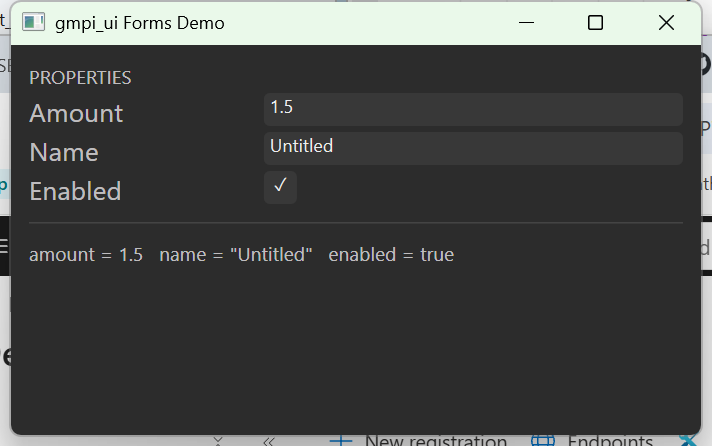
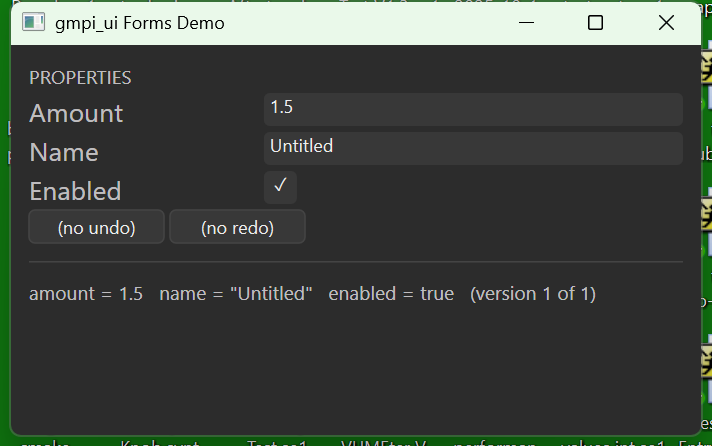
feat(FormsDemo): undo/redo over the immer history
A cursor into the immer::vector of model versions is the current
version. Undo and redo move it; a commit after an undo truncates the
vector at the cursor (take) before appending, dropping the redo tail.
Two buttons on the page, plus ctrl+Z / ctrl+Y through the Form's key
handler (WM_CHAR delivers the control codes 0x1A / 0x19). The summary
line reports "version N of M".

Verified by driving the built app: three edits, two undos, redo by key,
a commit that drops the tail, undo by key, redo by button - each state
matched. Doing so exposed the Grid-under-Form null dereference fixed in
the previous commit; without it the page stopped repainting after the
first edit.

diff --git a/examples/FormsDemo/DemoForm.cpp b/examples/FormsDemo/DemoForm.cpp
@@ -68,6 +68,16 @@ std::string trimmed(std::string s)
 DemoForm::DemoForm()
 {
     refreshStates();
+
+    // Keyboard shortcuts. The frame delivers WM_CHAR, so a control chord
+    // arrives as the ASCII control code: ctrl+Z is 0x1A, ctrl+Y is 0x19.
+    setKeyboardHandler([this](std::string glyph)
+    {
+        if (glyph == std::string(1, char(0x1A)))
+            undo();
+        else if (glyph == std::string(1, char(0x19)))
+            redo();
+    });
 }
 
 DemoForm::~DemoForm()
@@ -87,14 +97,32 @@ void DemoForm::refreshStates()
 
 void DemoForm::commit(Model next)
 {
-    // push_back returns a NEW vector sharing structure with the old one; the
-    // previous versions are untouched and still addressable.
-    history_ = history_.push_back(std::move(next));
+    // take() and push_back() each return a NEW vector sharing structure with
+    // the old one; the versions they keep are untouched and still addressable.
+    // Truncating first is what discards the redo tail after an undo.
+    history_ = history_.take(cursor_ + 1).push_back(std::move(next));
+    showVersion(history_.size() - 1);
+}
 
+void DemoForm::undo()
+{
+    if (canUndo())
+        showVersion(cursor_ - 1);
+}
+
+void DemoForm::redo()
+{
+    if (canRedo())
+        showVersion(cursor_ + 1);
+}
+
+void DemoForm::showVersion(std::size_t index)
+{
+    cursor_ = index;
     refreshStates();
 
-    // Rebuild rather than patch: the summary line below the controls is
-    // re-created with fresh text on the next render.
+    // Rebuild rather than patch: the summary line and the button captions
+    // below the controls are re-created with fresh text on the next render.
     formIsDirty_ = true;
     redraw();
 }
@@ -241,6 +269,27 @@ void DemoForm::Body()
         Label filler("");
     }
 
+    // --- undo / redo ---------------------------------------------------------
+    // A row of two fixed-width buttons and a filler that absorbs the rest. A
+    // button with nothing to do is still drawn (the widget set has no disabled
+    // look) but says so in its caption, and its click is a no-op.
+    {
+        constexpr float kButtonW = 90.0f;
+
+        Grid row(
+              { .gap = kLineSpacing, .auto_rows = kRowHeight, .auto_flow = eAutoFlow::columns, .column_widths = { kButtonW, kButtonW, fr(1.0f) } }
+            , {}
+        );
+
+        Button undo(canUndo() ? "Undo" : "(no undo)");
+        undo.view->onClick = [this] { this->undo(); };
+
+        Button redo(canRedo() ? "Redo" : "(no redo)");
+        redo.view->onClick = [this] { this->redo(); };
+
+        Label filler("");
+    }
+
     // --- summary -------------------------------------------------------------
     // What the model currently holds, so an edit's effect is visible even when
     // the editor re-shows exactly what was typed. Heading-sized: a label's
@@ -248,9 +297,9 @@ void DemoForm::Body()
     Spacer spacer({ 0, 0, 0, kHeadingHeight });
     const auto& m = model();
     Label summary(
-          std::format("amount = {}   name = \"{}\"   enabled = {}   ({} edits kept)",
+          std::format("amount = {}   name = \"{}\"   enabled = {}   (version {} of {})",
                       niceDoubleToString(m.amount), m.name, m.enabled ? "true" : "false",
-                      history_.size() - 1)
+                      cursor_ + 1, history_.size())
         , { 0, 0, 0, kHeadingHeight }
     );
 }

diff --git a/examples/FormsDemo/DemoForm.h b/examples/FormsDemo/DemoForm.h
@@ -19,11 +19,15 @@
 //     bounds or the theme change, so the summary line at the bottom is simply
 //     re-created with fresh text rather than kept in sync piecemeal.
 //
-//   * An IMMUTABLE model. Every committed edit produces a new Model value and
-//     appends it to an immer::vector - a persistent structure, so each version
-//     is a cheap, independent snapshot. The current model is the last one.
-//     That is the shape an undo stack wants, and it costs nothing here.
+//   * An IMMUTABLE model with undo/redo. Every committed edit produces a new
+//     Model value and appends it to an immer::vector - a persistent structure,
+//     so each version is a cheap, independent snapshot. A cursor into that
+//     vector says which version is current: undo and redo just move it, and a
+//     commit made after an undo drops the versions beyond the cursor (the redo
+//     tail), as every editor does. No command objects, no inverse operations:
+//     the history IS the undo stack.
 
+#include <cstddef>
 #include <string>
 
 #include <immer/vector.hpp>
@@ -61,10 +65,17 @@ public:
     }
 
 private:
-    // Every committed version of the model, oldest first; never empty.
+    // Every version of the model, oldest first; never empty. history_[cursor_]
+    // is the current one; anything after it is what redo would restore.
     immer::vector<Model> history_{ Model{} };
+    std::size_t          cursor_ = 0;
 
-    const Model& model() const { return history_.back(); }
+    const Model& model() const { return history_[cursor_]; }
+
+    bool canUndo() const { return cursor_ > 0; }
+    bool canRedo() const { return cursor_ + 1 < history_.size(); }
+    void undo();
+    void redo();
 
     // The widget-facing States (model -> UI). Re-seeded from the model by
     // refreshStates(); never written by the widgets themselves.
@@ -74,8 +85,11 @@ private:
 
     void refreshStates();
 
-    // Commit a new version: append it to the history and rebuild the page.
+    // Commit a new version: drop any redo tail, append it, rebuild the page.
     void commit(Model next);
+
+    // Move the cursor (undo/redo both land here) and rebuild the page.
+    void showVersion(std::size_t index);
 
     gmpi::drawing::Rect bounds{};
     bool formIsDirty_ = true;

diff --git a/examples/FormsDemo/README.md b/examples/FormsDemo/README.md
@@ -18,10 +18,13 @@ What it demonstrates:
   and `1.50` over `1.5` counts as no change.
 * **Rebuild-on-dirty rendering.** `Body()` is re-run whenever the model, the
   bounds or the theme change; the summary line is simply rebuilt.
-* **An immutable model.** `Model` is a plain value; every committed edit
-  appends a new one to an `immer::vector` (a persistent structure from
-  [immer](https://github.com/arximboldi/immer), fetched by CMake), so each
-  version is a cheap independent snapshot - the shape an undo stack wants.
+* **An immutable model with undo/redo.** `Model` is a plain value; every
+  committed edit appends a new one to an `immer::vector` (a persistent
+  structure from [immer](https://github.com/arximboldi/immer), fetched by
+  CMake), so each version is a cheap independent snapshot. A cursor into that
+  vector is the current version: Undo/Redo (buttons, or ctrl+Z / ctrl+Y) move
+  it, and a commit after an undo drops the redo tail. The history IS the
+  undo stack - no command objects, no inverse operations.
 
 Files:
 
